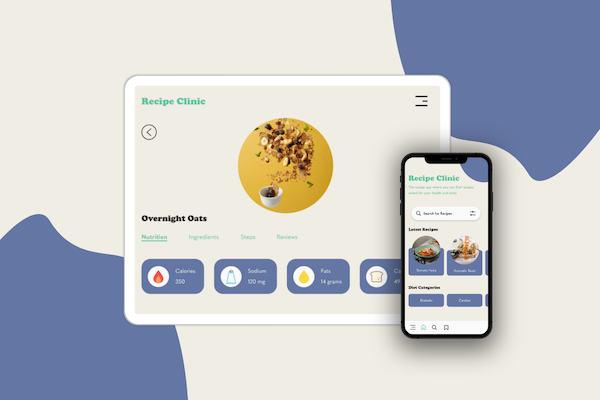
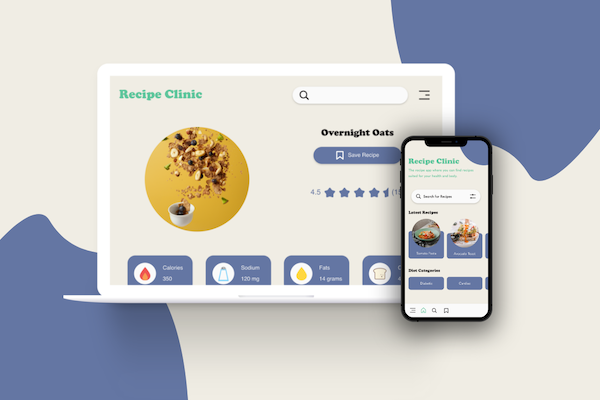
project 2 updates

Changed region(s): [[0.09, 0.15, 0.84, 0.9], [0.45, 0.57, 0.51, 0.6], [0.39, 0.57, 0.42, 0.6]]

diff --git a/project2.html b/project2.html
@@ -17,7 +17,7 @@
 <!--Link to fontawesome-->
     <script src="https://kit.fontawesome.com/0c0b7fb2cc.js" crossorigin="anonymous"></script>
 
-    <title> ChitChat Language App Case Study </title>
+    <title> Recipe Clinic Case Study </title>
   </head>
 
   <body>
@@ -41,7 +41,7 @@
 <!--Title Section-->
       <div id="title">
         <div class="container">
-          <h1> ChitChat: Language App </h1>
+          <h1> Recipe Clinic: Recipe App </h1>
         </div>
       </div>
 <!--Project Section-->
@@ -49,190 +49,175 @@
         <div class="container">
 <!--Project Image-->
           <picture>
-            <source srcset="img/chitchat/chitchat1.png"
+            <source srcset="img/recipe/recipe1.png"
             media="(max-width: 767px)" class="contentimg">
-            <img src= "img/chitchat/chitchat2.png"
+            <img src= "img/recipe/recipe2.png"
             alt="Project Image" class="contentimg">
           </picture>
 <!--Objective Section-->
-          <p> My roles and responsibilities included UX/UI designer, UX research,
-            and a business proposal and the duration of the project was 1 month.
-            The purpose of the app was to help users study a foreign language
-            through conversation via texting. The objective of the project was
-            to design the iOS and Android version of a mobile app of your choice
-            that solves a specific user problem.
+          <p> In this project, I designed a recipe app that helped its users find recipes suited for their
+            health needs. My roles included UX/UI designer and UX researche and the duration
+            of the project was 3 months. The purpose of the project was to gain a
+            better understanding of the Empathy, Define, and Ideation phases of the Design Thinking Process.
+            The objective of the project was to create a responsive recipe app
+            that solves the issues that users are facing with current recipe apps and meet their needs.
+
           </p>
 <!--Process Section-->
           <div class="process">
             <h2> My Process </h2>
-<!--Research Section-->
+<!--Competitive Analysis Section-->
             <div>
               <picture>
-                <source srcset="img/chitchat/research/research1.png"
+                <source srcset="img/recipe/competitive/competitive1.png"
                 media="(max-width: 767px)" class="contentimg">
-                <img src= "img/chitchat/research/research2.png"
-                alt="Research Image" class="contentimg">
+                <img src= "img/recipe/competitive/competitive2.png"
+                alt="Competitive Analysis Image" class="contentimg">
               </picture>
-              <h3> Research (Competitive Analysis) </h3>
-              <p> Duolingo is a very well-known, well-established, and popular
-                app due to its innovative UX and UI design. However, it’s focus
-                is on memorization (e.g. games, quizzes) and its onboarding
-                process is lengthy.
-              </p>
-              <p> MemRise’s UI Design has great colors and allows the user to
-                know where they are in the app. However the overall visual
-                hierarchy is a bit cluttered. Also, their focus is on
-                memorization through games and quizzes like Duolingo. Although,
-                their onboarding process is much simpler.
+              <h3> Competitive Analysis </h3>
+              <p> To start, I did a competitive analysis of two well-known recipe apps, "Forks Over Knives"
+                  and "Kitchen Stories". I found that while the first app had a strong following and a unique plant-based approach,
+                  it was costly and lacked variety and nutritional information. For the second app,
+                  I found that although they were innovative and appealed to beginners, the options were very limited.
               </p>
             </div>
-<!--Priority Matrix Section-->
+<!--User Interviews Section-->
             <div>
               <picture>
-                <source srcset="img/chitchat/matrix/matrix1.png"
+                <source srcset="img/recipe/interviews/interviews1.png"
                 media="(max-width: 767px)" class="contentimg">
-                <img src= "img/chitchat/matrix/matrix2.png"
-                alt="Priority Matrix Image" class="contentimg">
+                <img src= "img/recipe/interviews/interviews2.png"
+                alt="User Interviews Image" class="contentimg">
               </picture>
-              <h3> Priority Matrix </h3>
-              <p> This tool was used to determine the mobile app’s main
-                functions. The two tasks that were given the highest priority
-                were the AI Messaging and Translator. Memorization games have
-                already been used frequently by other apps. Then MemRise already
-                had travel language courses. While AI Messaging was much more
-                difficult to produce, it was unique and would set the app apart.
-                A translator would also be necessary for the user learning a
-                new language.
+              <h3> User Interviews </h3>
+              <p> I conducted user interviews with 3 particpants, a college student, a working professional, and a stay-at-home parent.
+                Overall, I found that each of them were concerned with finding healthy and nutritious recipes specific to their diet, understaning the ingredients that
+                in those recipes, and having a place to store and organize those recipes.
               </p>
             </div>
-<!--Userflow Section-->
+<!--User Personas Section-->
             <div>
               <picture>
-                <source srcset="img/chitchat/userflow/userflow1.png"
+                <source srcset="img/recipe/personas/personas1.png"
                 media="(max-width: 767px)" class="contentimg">
-                <img src= "img/chitchat/userflow/userflow2.png"
-                alt="Userflow Image" class="contentimg">
+                <img src= "img/recipe/personas/personas2.png"
+                alt="User Personas Image" class="contentimg">
               </picture>
-              <h3> Userflow </h3>
-              <p> In the onboarding process, users will see welcome screens with
-                information on the app (however, they can easily skip this).
-                They can then choose their native language and foreign language
-                and then sign up. From the home screen, users can either text or
-                translate.
+              <h3> User Personas </h3>
+              <p> After conducting user interviews and organizing that date, I had
+                to define the recipe app's audience. I created 3 user personas from different backgrounds
+                and different goals relating to the recipe app.
               </p>
             </div>
-<!--Wireframes Section-->
+<!--Userflows Section-->
             <div>
 
-            <!--iOS Wireframes Image-->
               <picture>
-                <source srcset="img/chitchat/wireframes/ios/ios1.png"
+                <source srcset="img/recipe/userflow/userflow1.png"
                 media="(max-width: 767px)" class="contentimg">
-                <img src= "img/chitchat/wireframes/ios/ios2.png"
-                alt="iOS Wireframes Image" class="contentimg">
-              </picture>
-            <!--Android Wireframes Image-->
-              <picture>
-                <source srcset="img/chitchat/wireframes/android/android1.png"
-                media="(max-width: 767px)" class="contentimg">
-                <img src= "img/chitchat/wireframes/android/android2.png"
-                alt="iOS Wireframes Image" class="contentimg">
+                <img src= "img/recipe/userflow/userflow2.png"
+                alt="Userflows Image" class="contentimg">
               </picture>
 
-              <h3> Wireframing </h3>
-              <p> The iOS and Android wireframes differ in various UI elements.
-                One example is the buttons. The Android buttons and dropdowns
-                are more 3-dimensional and elevated than the 2-dimensional iOS.
-                Also, the Android design utilizes radio buttons. However, each
-                design for the two devices maintain the key functions of the app.
+              <h3> Userflows </h3>
+              <p> I had 5 tasks users could accomplish through the recipe app. The first was "users can filter search find recipes suited for their health needs".
+                The second task was "users can view nutritional informationon recipes".
+                The third task was "users can view each ingredient's information".
+                These were important because the app's purpose was to help users find recipes suited to their health conditions.
+                The final tasks was "users can see recipe reviews" and "users can log in and bookmark recipes".
               </p>
             </div>
-<!--Style Guide Section-->
+<!--Ideation Section-->
             <div>
 
-            <!--Typography Image-->
+            <!--Paper Wireframes Image-->
               <picture>
-                <source srcset="img/chitchat/style/typography/typography1.png"
+                <source srcset="img/recipe/ideation/paper/paper1.png"
                 media="(max-width: 767px)" class="contentimg">
-                <img src= "img/chitchat/style/typography/typography2.png"
-                alt="Typography Image" class="contentimg">
+                <img src= "img/recipe/ideation/paper/paper2.png"
+                alt="Paper Wireframes Image" class="contentimg">
               </picture>
-            <!--Color Palette Image-->
+            <!--LowFi Wireframes Image-->
               <picture>
-                <source srcset="img/chitchat/style/color/color1.png"
+                <source srcset="img/recipe/ideation/lofi/lofi1.png"
                 media="(max-width: 767px)" class="contentimg">
-                <img src= "img/chitchat/style/color/color2.png"
-                alt="Color Palette Image" class="contentimg">
+                <img src= "img/recipe/ideation/lofi/lofi2.png"
+                alt="Low Fidelity Wireframes Image" class="contentimg">
               </picture>
-            <!--UI Components Image-->
+            <!--MidFi Wireframes Image-->
               <picture>
-                <source srcset="img/chitchat/style/ui/ui1.png"
+                <source srcset="img/recipe/ideation/midfi/midfi1.png"
                 media="(max-width: 767px)" class="contentimg">
-                <img src= "img/chitchat/style/ui/ui2.png"
-                alt="UI Components Image" class="contentimg">
+                <img src= "img/recipe/ideation/midfi/midfi2.png"
+                alt="Mid Fidelity Wireframes Image" class="contentimg">
               </picture>
-            <!--Illustrations Image-->
-              <picture>
-                <source srcset="img/chitchat/style/illustration/illustration1.png"
-                media="(max-width: 767px)" class="contentimg">
-                <img src= "img/chitchat/style/illustration/illustration2.png"
-                alt="Illustrations Image" class="contentimg">
-              </picture>
-              <h3> Style Guide </h3>
-              <p> The mobile app’s visual design is modern but playful. It
-                utilizes simple geometric shapes in its design, especially its
-                illustrations. The colors are bright to draw the user’s attention.
+
+              <h3> Ideation </h3>
+              <p> After defining the audience and the userflow, I went on to creating wireframes.
+                As I designed, I used the userflow as a guide and kept in mind the users. For exmaple, I made sure to draw in a search filter screen as it was important for users to find recipes suited to their health needs.
               </p>
             </div>
-<!--Prototype Section-->
+<!--Visual Design Section-->
             <div>
-            <!--Onboarding Image-->
+            <!--Palette Image-->
               <picture>
-                <source srcset="img/chitchat/prototype/ios/onboarding/onboarding1.png" media="(max-width: 767px)" class="contentimg">
-                <img src= "img/chitchat/prototype/ios/onboarding/onboarding2.png"
-                alt="Onboarding Image" class="contentimg">
+                <source srcset="img/recipe/design/palette/palette1.png" media="(max-width: 767px)" class="contentimg">
+                <img src= "img/recipe/design/palette/palette2.png"
+                alt="Palette and Typography Image" class="contentimg">
               </picture>
-            <!--Text and Translate Image-->
+            <!--Icons Image-->
               <picture>
-                <source srcset="img/chitchat/prototype/ios/text/text1.png"
+                <source srcset="img/recipe/design/icons/icons1.png"
                 media="(max-width: 767px)" class="contentimg">
-                <img src= "img/chitchat/prototype/ios/text/text2.png"
-                alt="Text and Translate Image" class="contentimg">
+                <img src= "img/recipe/design/icons/icons2.png"
+                alt="Icons Image" class="contentimg">
               </picture>
-            <!--Android Version Image-->
+            <!--UI Elements and Photos Image-->
               <picture>
-                <source srcset="img/chitchat/prototype/android/android1.png"
+                <source srcset="img/recipe/design/images/images1.png"
                 media="(max-width: 767px)" class="contentimg">
-                <img src= "img/chitchat/prototype/android/android2.png"
-                alt="Android Version Image" class="contentimg">
+                <img src= "img/recipe/design/images/images2.png"
+                alt="UI Elements and Photos Image" class="contentimg">
               </picture>
 
-              <h3> Prototypes </h3>
-              <p>Users are welcomed with information about the app but have the
-                option to skip it. This was added as some feedback showed that
-                the app’s concept was not clear. From the home screen, users can
-                visit the message screen to chat with “ChatBot” or translate
-                words using the translator screen. A navigation bar is provided
-                for users to jump to various locations. The android version of
-                the mobile app utilizes material design guidelines and varies
-                from the iOS in some UI components.
+              <h3> Visual Design </h3>
+              <p>Once I established what the screens the app needed and their overall layouts, I went on to create
+                the visual design. I wanted the app to be colorful because I was inspired by rainbow foods. Colorful foods, which are usually fruits and veggies,
+                tend to have lots of nutriients, vitamins, and antioxidants. For example, purple fruits and veggies contain anthocyanins, which have many anti-diabetic anti-cancer, and anti-inflammatory benefits.
+                Green leafy vegetables can help lower the risk of high blood pressure and heart disease. I wanted this philosophy to be incorporated in the icons, buttons, and even images. As a side note, I also used material design as a guiding system when designing the mobile layout and the buttons and icons as well.
               </p>
             </div>
           </div>
+
+<!--Mockups Section-->
+                      <div>
+
+                        <picture>
+                          <source srcset="img/recipe/mockups/mobile/mobile1.png"
+                          media="(max-width: 767px)" class="contentimg">
+                          <img src= "img/recipe/mockups/mobile/mobile2.png"
+                          alt="Mobile Mockups Image" class="contentimg">
+                        </picture>
+
+                        <picture>
+                          <source srcset="img/recipe/mockups/desktop/desktop1.png"
+                          media="(max-width: 767px)" class="contentimg">
+                          <img src= "img/recipe/mockups/desktop/desktop2.png"
+                          alt="Desktop and Tablet Mockups Image" class="contentimg">
+                        </picture>
+
+
+                        <h3> Mockups </h3>
+                        <p> After the establishing the visual design, I designed mockups for the mobile, tablet, and desktop version of the recipe app.
+                        </p>
+                      </div>
+
 <!--Conclusion Section-->
           <div class="conclusion">
             <h2> Conclusion </h2>
-            <p>Overall, I’ve learned a lot throughout this process. First,
-              making mistakes are going to happen. What’s more important is
-              recognizing them and learning from them. Second, always conduct
-              feedback throughout the process. This will help keep the product
-              user-centered and improve it vastly. If I could go back and improve
-              on something, it would be to conduct more thorough UX research.
-              I learned a little later in the process that Duolingo had a similar
-              feature in the past but was discontinued because not many people
-              were using it. In the future, I'd like to explore the AI chat feature
-              more and would need to test it amongst users to garner their opinions
-              and figure out ways to make it more successful and user-friendly.
+            <p>Overall, I’ve learned a lot about the design thinking process.
+              Specifically, I gained a better understanding of the importance of user research in the design thinking process.
+              Understanding where users are coming from can help bring to light new ideas and help drive creativity. 
             </p>
           </div>
         </div>

diff --git a/project1.html b/project1.html
@@ -173,11 +173,9 @@
 <!--Conclusion Section-->
           <div class="conclusion">
             <h2> Conclusion </h2>
-            <p>I’ve learned that designs evolve over time and that iterations
-              are part of the design process. Also, it’s important to stay
-              organized and establish main components ahead of time. Lastly, as
-              designers it’s important to continue to look for inspiration and
-              that inspiration can be found in the everyday things.
+            <p>Throughout this project, I learned how important it is to understand a brand, specifically its principles and philosophy.
+              Having this understanding can guide a designer from start to finish, such as how to they would go about conducting user research and
+              what the overall tone of the visual style will be. The overall app needs to match the company's branding in order to help fulfill the brand's purpose.
             </p>
           </div>
         </div>
